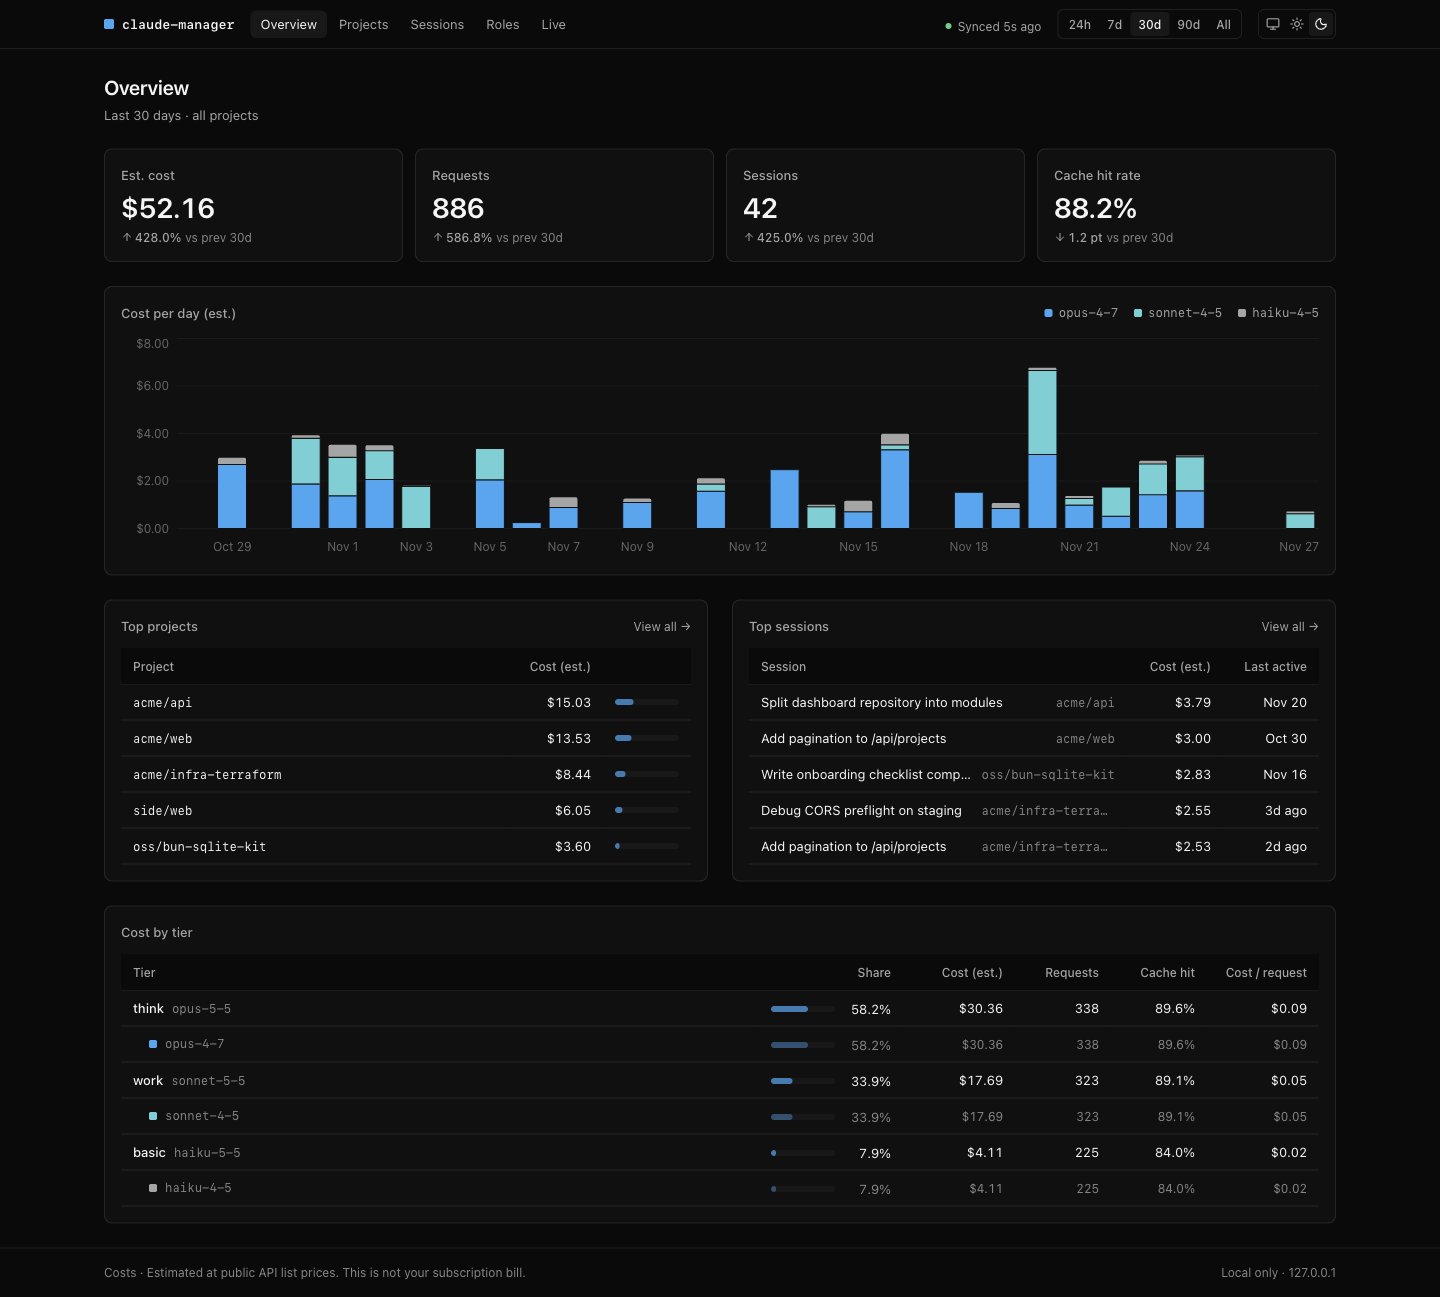
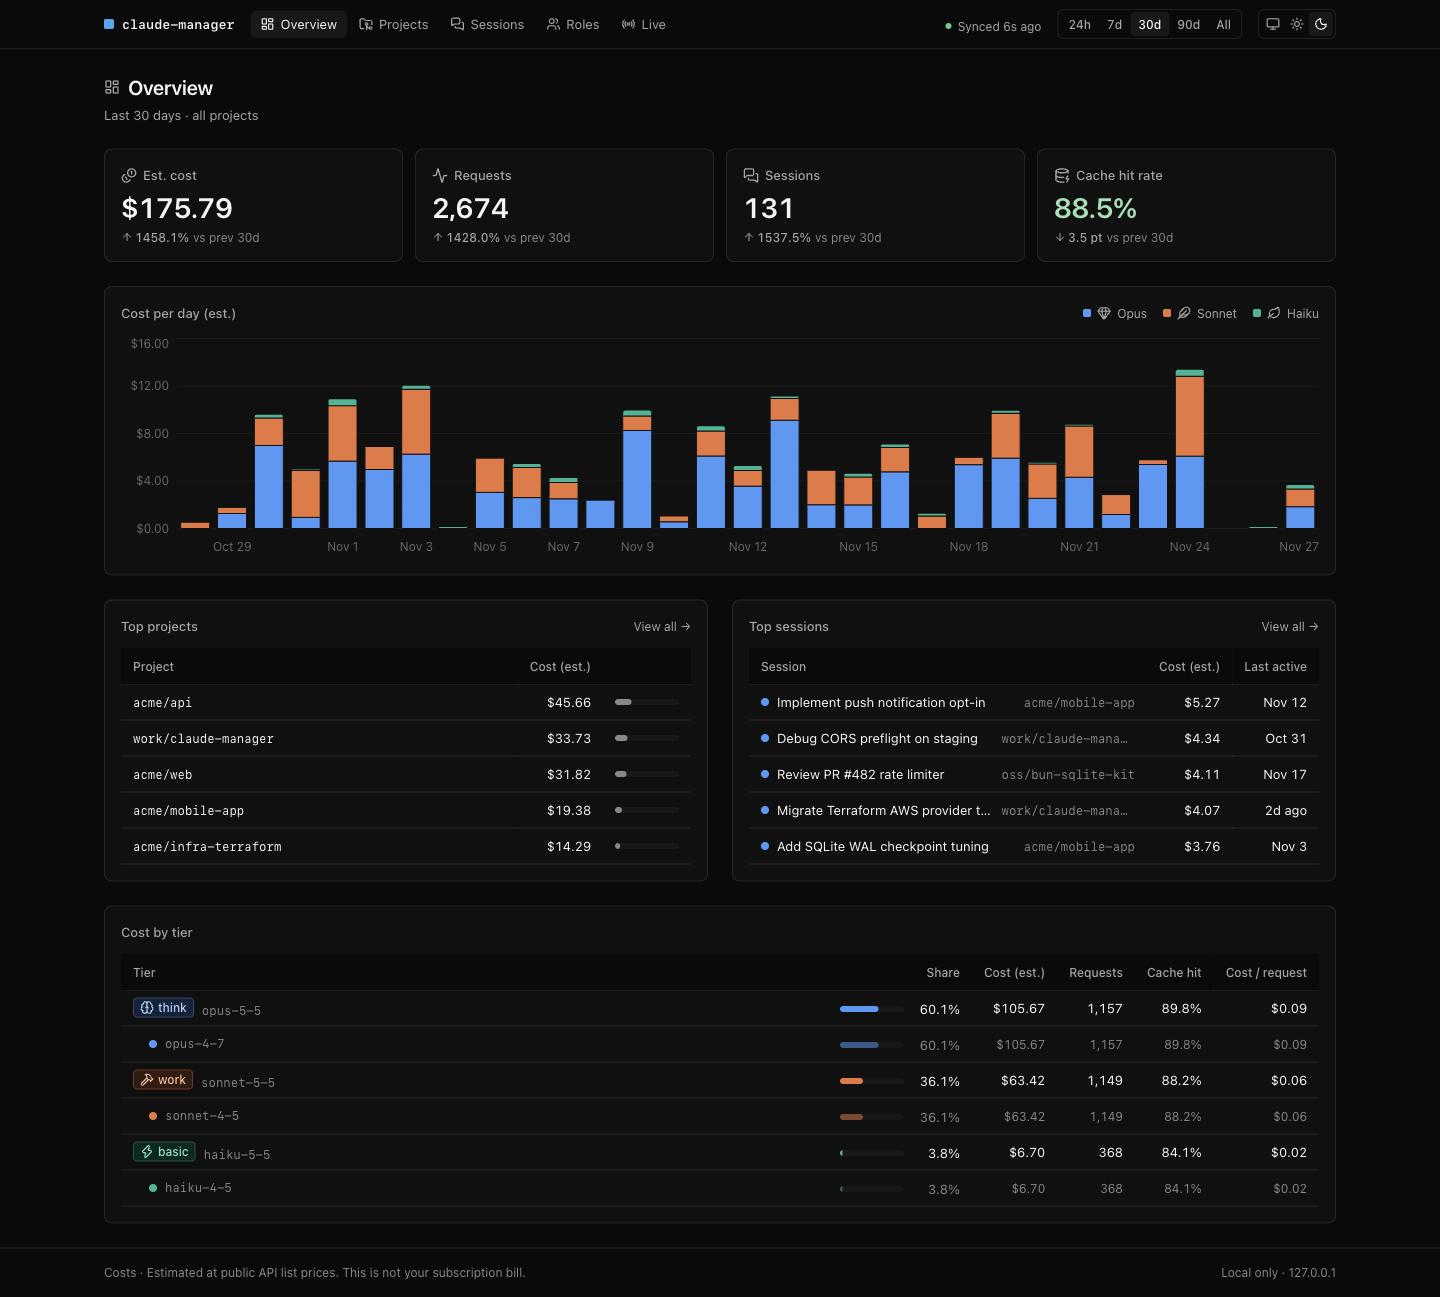
docs(readme): document v0.2.0 dashboard and refresh screenshots

diff --git a/README.md b/README.md
@@ -3,6 +3,7 @@
 Smart model roles and local usage analytics for Claude Code.
 
 [![Release](https://img.shields.io/github/v/release/makurosolusi/claude-manager)](https://github.com/makurosolusi/claude-manager/releases/latest)
+[![License: MIT](https://img.shields.io/badge/license-MIT-blue)](LICENSE)
 [![Platform](https://img.shields.io/badge/platform-macOS%20%7C%20Linux-lightgrey)](#requirements)
 
 ![claude-manager dashboard, Overview page in dark theme](README_ASSETS/overview-dark.png)
@@ -86,7 +87,7 @@ claude-manager doctor    # checks the claude CLI, installs and settings.json
 2. Run `claude-manager doctor`. Fix any `FAIL` line before you continue.
 3. Preview, then install the roles: `claude-manager install --dry-run`, then `claude-manager install`.
 4. Start a swarm session: `claude --agent manager`.
-5. Open the dashboard: `claude-manager dashboard`, then go to http://127.0.0.1:5757. It syncs on start and picks up new transcript data every 5 seconds.
+5. Open the dashboard: `claude-manager dashboard`, then go to http://127.0.0.1:5757. It syncs on start and picks up new transcript data while it runs.
 
 ## Usage
 
@@ -142,24 +143,39 @@ claude-manager help stats             # show the options for one command
 
 Start it with `claude-manager dashboard`. It is read-only and serves a single page app with these views:
 
-- **Overview** (`#/`): four KPI cards (estimated cost, requests, sessions, cache hit rate), each with its change against the previous window of the same length when there is one (not for `all`). It also shows daily cost stacked by model, top projects, top sessions, and cost by tier.
-- **Sessions** (`#/sessions`): a sortable table with model, agents, requests, tokens, cost and last active. Sort by last active, cost, requests, tokens or agents. The search box matches title, id or project; press `/` to focus it. A project filter shows as a removable chip.
-- **Projects** (`#/projects`): usage per project, paginated. A row opens Sessions filtered to that project.
-- **Roles** (`#/roles`): usage per role and model, paginated.
-- **Live** (`#/live`): sessions active in the last 15 minutes, with estimated context left. Refreshes every 5 seconds.
-- **Session detail** (`#/sessions/<id>`): one session, its subagents, and its prompt timeline. With `storePromptText` set to `false`, no prompt text is stored.
+- **Overview** (`#/`): four KPI cards (estimated cost, requests, sessions, cache hit rate), each with its change against the previous window of the same length when there is one (not for `all`). It also shows daily cost stacked by model family, top projects, top sessions, and cost by tier.
+- **Sessions** (`#/sessions`): every session with status, model, role, agents, requests, tokens, cache hit rate, cost and last active. Facet filters cover project, model, role and status.
+- **Projects** (`#/projects`): usage per project. A row opens Sessions filtered to that project.
+- **Roles** (`#/roles`): usage per role and model, grouped by tier by default, with a total per tier. By model and By role tables sit below.
+- **Live** (`#/live`): sessions active in the last 15 minutes, with a context bar and estimated context left (OK, warning or critical). It refreshes when new data is synced.
+- **Session detail** (`#/sessions/<id>`): one session with cost, requests, tokens and context. A searchable request table (agent, model, tools, stop reason, context, tokens, cost) has Agent, Model, Stop and Tool filters. Side panels list the models, tools and agents used, and a prompt timeline follows. With `storePromptText` set to `false`, no prompt text is stored.
+
+Colours carry meaning. Opus is blue, sonnet is orange and haiku is teal. Each role has its own colour and icon. Status, cache hit rate, context level and stop reason have colours too, and the cost column carries a heat marker.
+
+The tables share one toolkit:
+
+- **Search** over titles, ids and projects (Sessions and Live), roles and models (Roles), or models, agents, tools and stop reasons (session requests). Press `/` to focus the search box.
+- **Facet filters** list their values with counts.
+- **Group by** shows a subtotal per group. Sessions group by project, model family or status.
+- **View** menu: show or hide columns and choose compact or comfortable row density. These two settings are stored in your browser, not in the URL.
+- **Pagination** with 25, 50 or 100 rows per page.
+- **Sorting** by clicking a column header.
 
 The range picker sets the time window for each page: `24h`, `7d`, `30d` (default), `90d` or `all`. The picker is disabled on Live and session detail, which do not filter by time.
 
-Page state lives in the URL hash, so a reload or a shared link keeps the same view. On Sessions, `q` (search), `sort`, `dir`, `project` and `page` are in the URL alongside `range`. Default values are left out of the URL.
-
-Overview and Sessions have the redesigned layout.
+Page state lives in the URL hash, so a reload or a shared link keeps the same view: range, search, filters, group, sort, page and page size. Default values are left out of the URL.
 
 | Overview, dark | Overview, light |
 |---|---|
 | ![Overview page in dark theme](README_ASSETS/overview-dark.png) | ![Overview page in light theme](README_ASSETS/overview-light.png) |
-| Sessions, dark | Sessions, mobile |
-| ![Sessions page in dark theme](README_ASSETS/sessions-dark.png) | ![Sessions page on a phone-sized screen](README_ASSETS/sessions-mobile.png) |
+| **Sessions, dark** | **Sessions with the Role filter open** |
+| ![Sessions page in dark theme](README_ASSETS/sessions-dark.png) | ![Sessions page with the Role facet open](README_ASSETS/sessions-filter.png) |
+| **Roles, grouped by tier** | **Live** |
+| ![Roles page grouped by tier](README_ASSETS/roles.png) | ![Live page showing context use per session](README_ASSETS/live.png) |
+| **Session detail** | **Sessions, mobile** |
+| ![Session detail page in dark theme](README_ASSETS/session-detail.png) | ![Sessions page on a phone-sized screen](README_ASSETS/sessions-mobile.png) |
+
+The screenshots use generated demo data.
 
 ## Usage analytics and privacy
 
@@ -244,3 +260,7 @@ claude-manager uninstall --purge-data       # also delete ~/.claude-manager (onl
 ```
 
 `uninstall` removes the role files and settings keys that `install` wrote, and it leaves your own agents alone. It does not delete the binary. Remove it with `rm ~/.local/bin/claude-manager`, or from the directory you installed it to.
+
+## License
+
+MIT. See [LICENSE](LICENSE).
